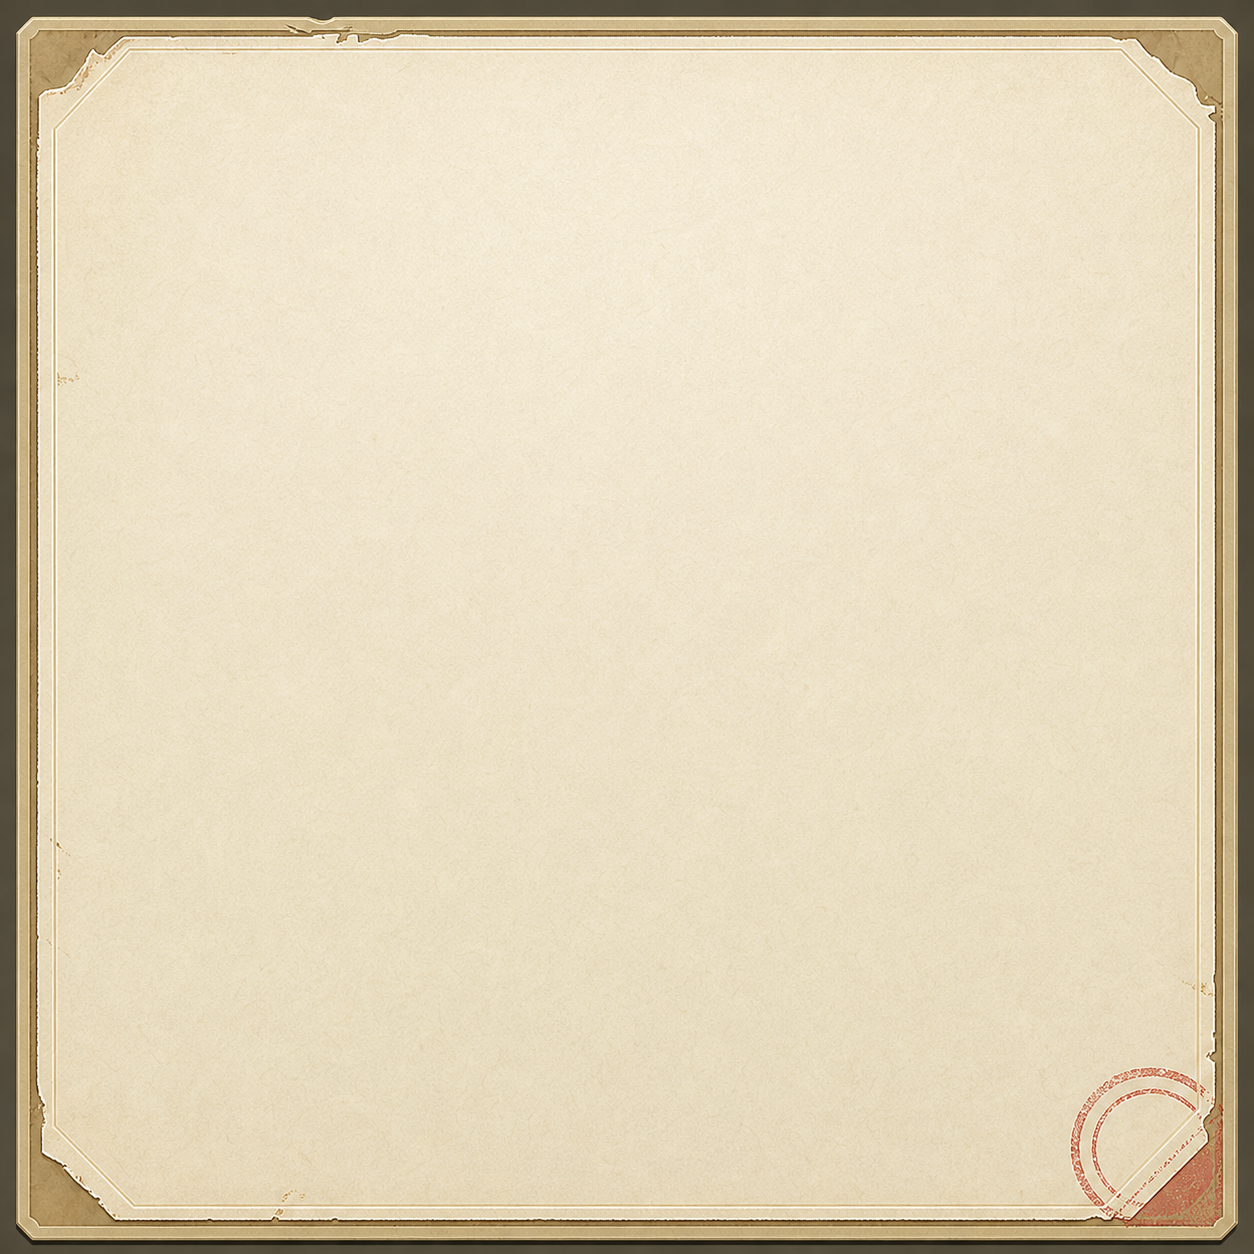
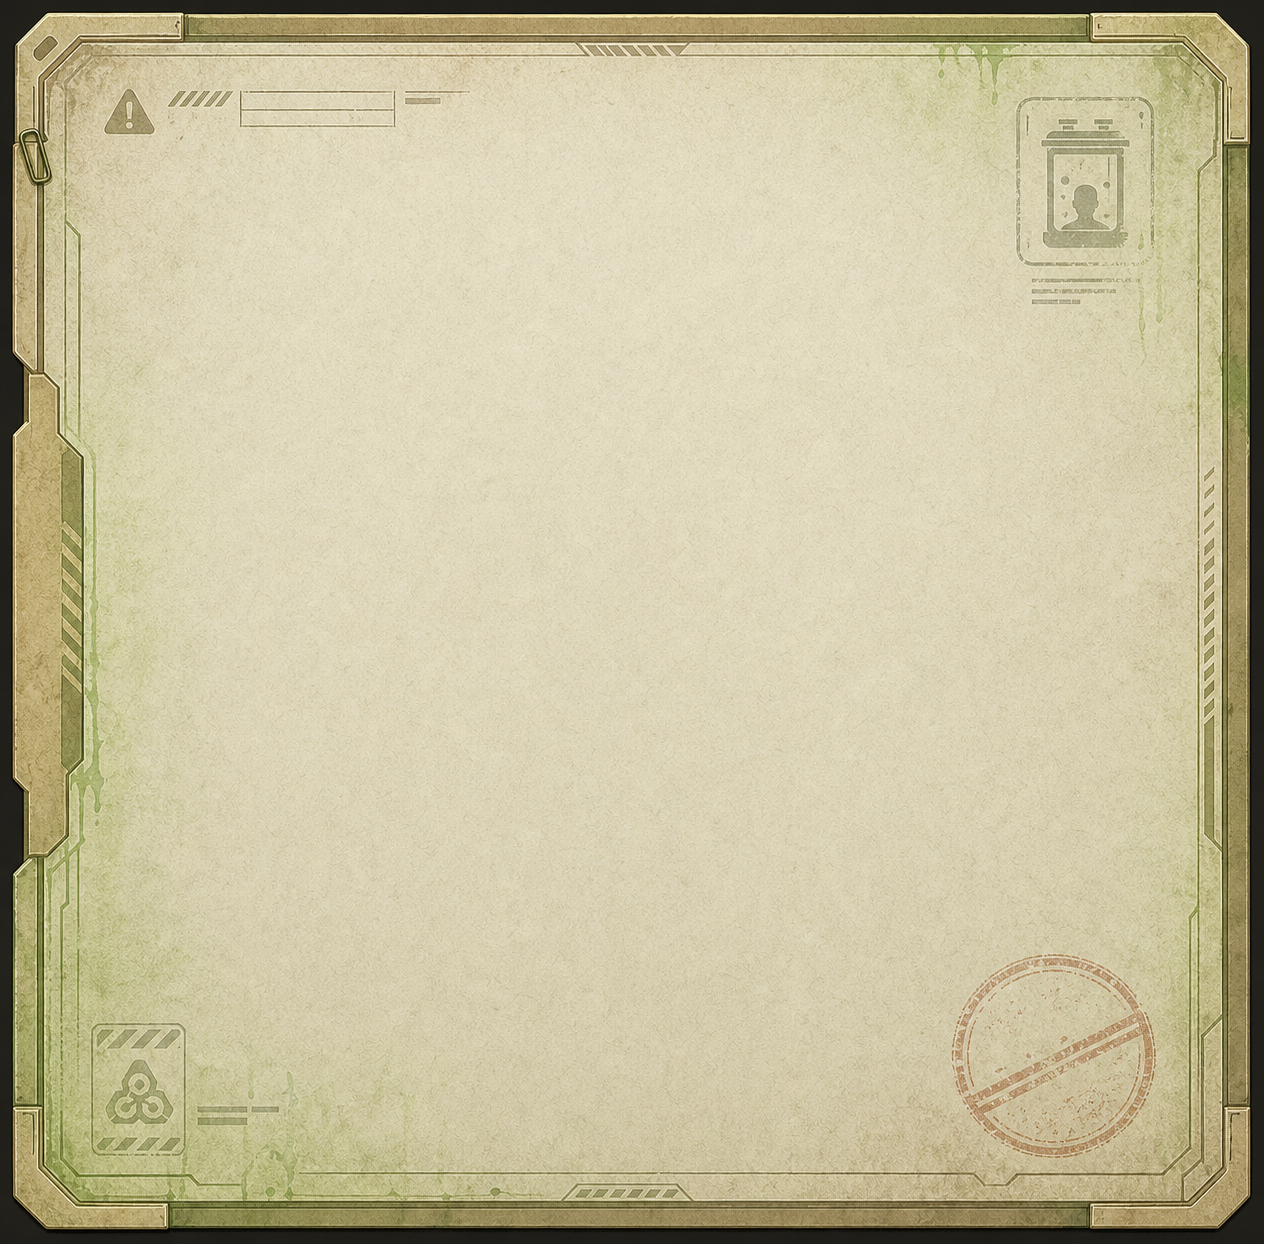
Retune MVP UI sprites for clone-lab terminal style

diff --git a/Assets/Scripts/IngameCore/CaseReview/CaseReviewMvpSceneController.cs b/Assets/Scripts/IngameCore/CaseReview/CaseReviewMvpSceneController.cs
@@ -2897,6 +2897,16 @@ namespace ProjectW.IngameCore.CaseReview
                 return null;
             }
 
+            if (!UsesSlicedThemeSprite(panelName))
+            {
+                return null;
+            }
+
+            if (PanelNameContains(panelName, "Desktop Action"))
+            {
+                return terminalButtonSprite;
+            }
+
             if (SameColor(color, PaperColor) || SameColor(color, IdCardColor))
             {
                 return paperPanelSprite;
@@ -2912,12 +2922,14 @@ namespace ProjectW.IngameCore.CaseReview
                 return crtPanelSprite;
             }
 
-            if (PanelNameContains(panelName, "Desktop Action") || SameColor(color, TerminalButtonColor))
-            {
-                return terminalButtonSprite;
-            }
-
             return null;
+        }
+
+        private static bool UsesSlicedThemeSprite(string panelName)
+        {
+            return panelName.EndsWith(" Window", StringComparison.OrdinalIgnoreCase)
+                || string.Equals(panelName, "Plan Approval Modal", StringComparison.OrdinalIgnoreCase)
+                || PanelNameContains(panelName, "Desktop Action");
         }
 
         private static Color TintForPanelSprite(Color color)
